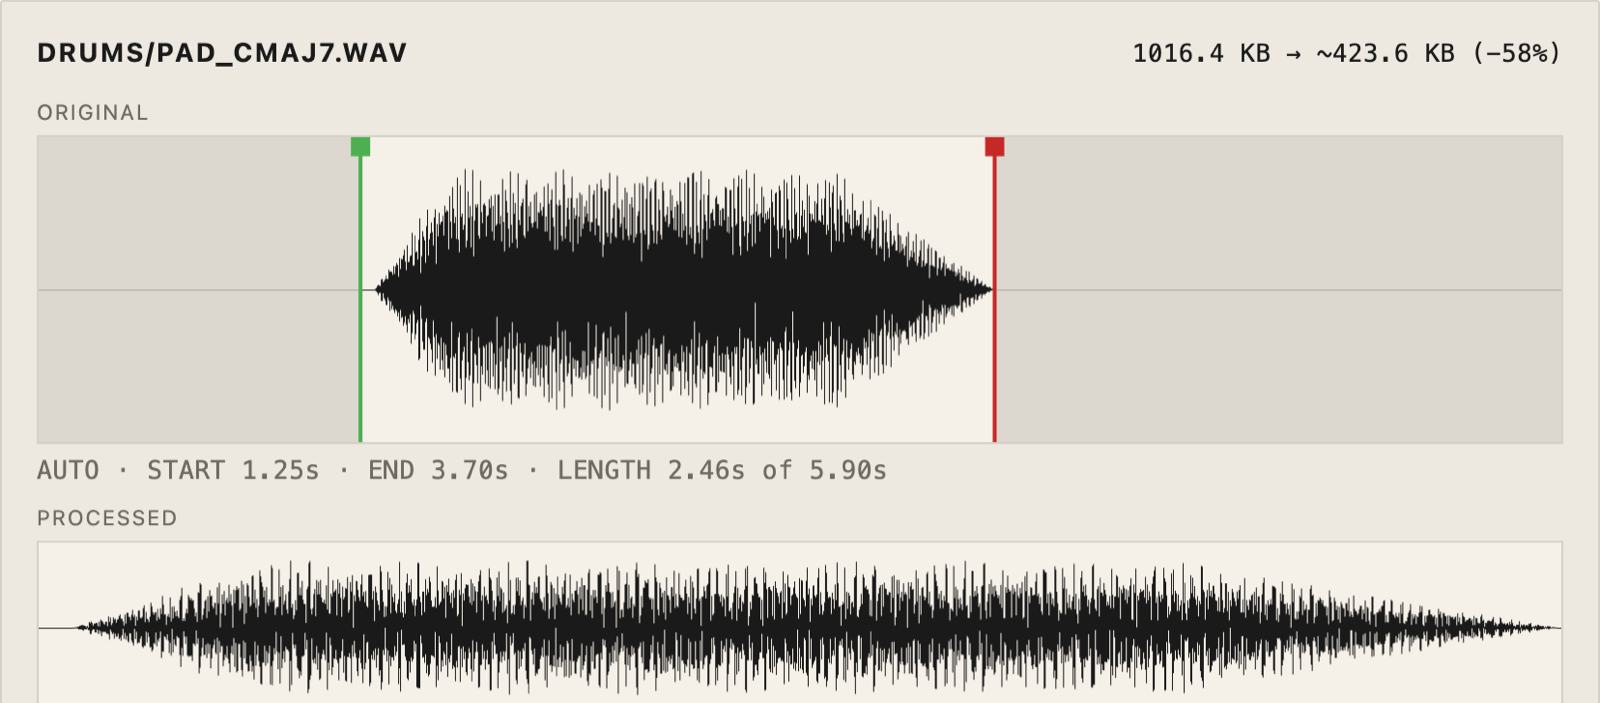
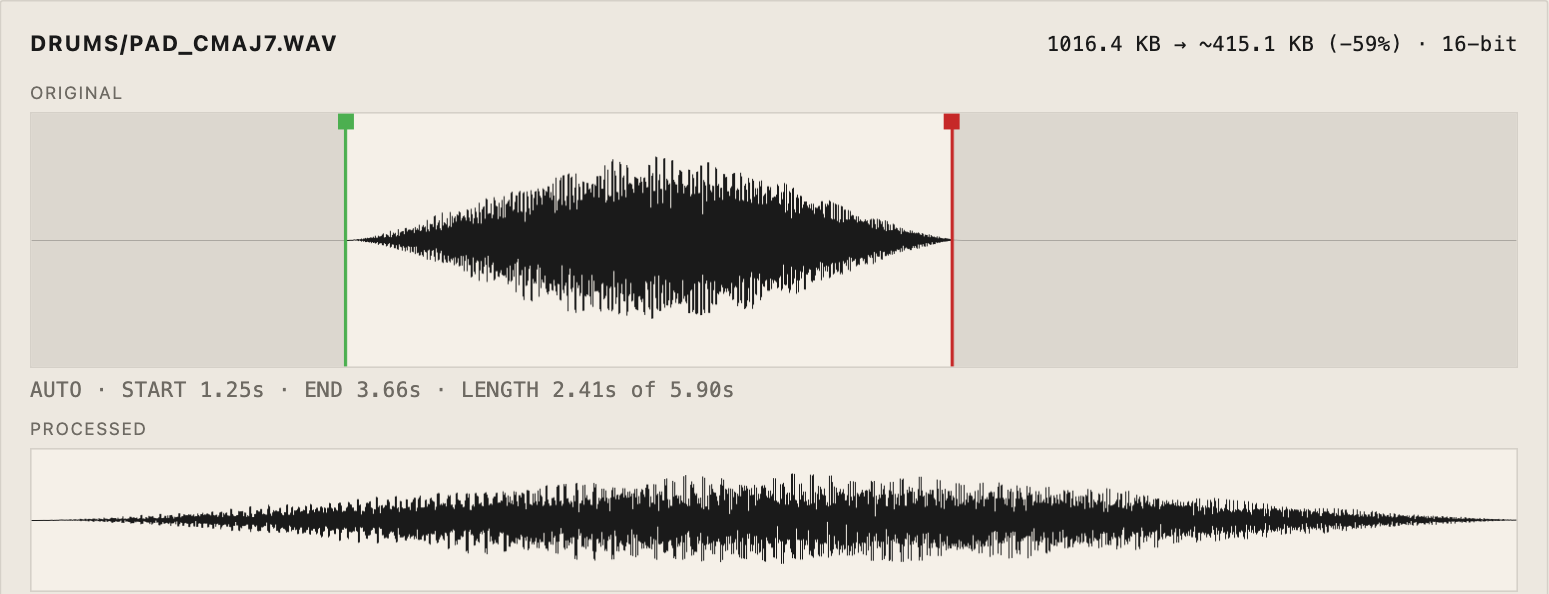
Regenerate the README screenshots from the current app
The old images still showed the "KO Trimmer" name and the removed
Favorites sidebar. scripts/screenshots.ts (npm run screenshots) rebuilds
them from the production build in Chromium: a synthetic Drums kit
written to OPFS behind a stubbed folder picker, so the shots show real
folder output, a manual trim and the finished batch.

diff --git a/scripts/screenshots.ts b/scripts/screenshots.ts
@@ -1,0 +1,135 @@
+/**
+ * Regenerates the README screenshots in docs/screenshots/ from the production
+ * build (run via `npm run screenshots`, which builds first). Drives Chromium
+ * through a small synthetic "Drums" kit, with showDirectoryPicker stubbed to
+ * an OPFS folder so the shots show real folder output.
+ */
+import { chromium, type Page } from '@playwright/test';
+import { preview } from 'vite';
+import { encodeWav } from '../src/audio/wavEncoder';
+
+const SAMPLE_RATE = 44100;
+const OUT_DIR = 'docs/screenshots';
+
+let seed = 1;
+const noise = () => ((seed = (seed * 16807) % 2147483647) / 2147483647) * 2 - 1;
+
+/** `before` s of silence, then `length` s of `sample(t)`, then `after` s of silence. */
+function padded(before: number, length: number, after: number, sample: (t: number) => number): Float32Array {
+  const out = new Float32Array(Math.round((before + length + after) * SAMPLE_RATE));
+  const start = Math.round(before * SAMPLE_RATE);
+  for (let i = 0; i < length * SAMPLE_RATE; i++) out[start + i] = sample(i / SAMPLE_RATE);
+  return out;
+}
+
+function kit(): Array<{ path: string; bytes: Uint8Array }> {
+  const chord = [261.63, 329.63, 392.0, 493.88]; // Cmaj7
+  const pad = (detune: number) =>
+    padded(1.25, 2.45, 2.2, (t) => {
+      const swell = Math.sin((Math.PI * t) / 2.45) ** 1.5;
+      const tone = chord.reduce((sum, hz) => sum + Math.sin(2 * Math.PI * hz * detune * t), 0) / chord.length;
+      return 0.6 * swell * (tone + 0.15 * noise());
+    });
+  let kickPhase = 0;
+  const kick = padded(0.3, 1.4, 1.5, (t) => {
+    kickPhase += (2 * Math.PI * (50 + 100 * Math.exp(-t * 25))) / SAMPLE_RATE;
+    return 0.9 * Math.exp(-t * 3) * Math.sin(kickPhase);
+  });
+  const snare = padded(
+    0.2,
+    0.4,
+    1.5,
+    (t) => Math.exp(-t * 14) * (0.6 * noise() + 0.4 * Math.sin(2 * Math.PI * 185 * t)),
+  );
+  let last = 0;
+  const hat = padded(0.15, 0.25, 1.5, (t) => {
+    const n = noise();
+    const high = n - last; // crude high-pass
+    last = n;
+    return 0.5 * Math.exp(-t * 30) * high;
+  });
+  return [
+    { path: 'Drums/pad_Cmaj7.wav', bytes: encodeWav([pad(1), pad(1.003)], SAMPLE_RATE) },
+    { path: 'Drums/Kit/kick_808.wav', bytes: encodeWav([kick], SAMPLE_RATE) },
+    { path: 'Drums/Kit/snare_tight.wav', bytes: encodeWav([snare], SAMPLE_RATE) },
+    { path: 'Drums/Kit/hat_closed.wav', bytes: encodeWav([hat], SAMPLE_RATE) },
+  ];
+}
+
+/** Writes the kit into OPFS and makes the folder picker return it. */
+async function useOpfsKit(page: Page): Promise<void> {
+  const files = kit().map(({ path, bytes }) => ({ path, bytes: Array.from(bytes) }));
+  await page.evaluate(async (files) => {
+    const root = await navigator.storage.getDirectory();
+    await root.removeEntry('Drums', { recursive: true }).catch(() => {});
+    for (const { path, bytes } of files) {
+      const parts = path.split('/');
+      const name = parts.pop()!;
+      let dir = root;
+      for (const part of parts) dir = await dir.getDirectoryHandle(part, { create: true });
+      const writable = await (await dir.getFileHandle(name, { create: true })).createWritable();
+      await writable.write(new Uint8Array(bytes));
+      await writable.close();
+    }
+    window.showDirectoryPicker = async () => root.getDirectoryHandle('Drums');
+  }, files);
+}
+
+async function main(): Promise<void> {
+  const server = await preview({ preview: { port: 4175, strictPort: true }, logLevel: 'warn' });
+  const url = server.resolvedUrls!.local[0];
+  const browser = await chromium.launch();
+  try {
+    const page = await browser.newPage({
+      viewport: { width: 1000, height: 1000 },
+      deviceScaleFactor: 1.6, // 1600 px wide images
+      colorScheme: 'light',
+    });
+    await page.goto(url);
+    await page.getByRole('button', { name: 'Skip for now' }).click();
+    await page.addStyleTag({ content: '.about-button { display: none; }' }); // fixed overlay, not part of the shot
+    await useOpfsKit(page);
+
+    await page.getByText('Drop audio files or folders here').click();
+    await page.locator('.file-table tbody tr', { hasText: 'pad_Cmaj7' }).click();
+    await page.locator('.action-row .readout', { hasText: '→ ~' }).waitFor();
+    await page.waitForFunction(
+      () => !document.querySelector('.action-row .readout')?.textContent?.includes('analysed'),
+    );
+    await page.waitForTimeout(500); // processed-preview render
+    await page.evaluate(() => window.scrollTo(0, 0));
+    await page.screenshot({ path: `${OUT_DIR}/main.png` });
+
+    const panel = (await page.locator('.waveform-editor').boundingBox())!;
+    const processed = (await page.locator('.wave-processed').boundingBox())!;
+    await page.screenshot({
+      path: `${OUT_DIR}/editor.png`,
+      fullPage: true, // the editor sits below the fold
+      clip: { x: panel.x, y: panel.y, width: panel.width, height: processed.y + processed.height + 1 - panel.y },
+    });
+
+    // A manual trim on the pad (end handle pulled in from the keyboard), so the results show the tag.
+    await page.locator('.wave-original').focus();
+    await page.keyboard.press(']');
+    for (let i = 0; i < 4; i++) await page.keyboard.press('Shift+ArrowLeft');
+    await page.locator('.wave-original').blur();
+
+    await page.getByRole('button', { name: 'Process Files' }).click();
+    await page.getByText('Processing complete!').waitFor();
+    await page.waitForFunction(() => {
+      const fill = document.querySelector<HTMLElement>('.progress-bar-fill')!; // width animates
+      return fill.getBoundingClientRect().width >= fill.parentElement!.getBoundingClientRect().width - 2;
+    });
+    await page.evaluate(() => window.scrollTo(0, 0));
+    const results = (await page.locator('.panel').last().boundingBox())!;
+    await page.screenshot({
+      path: `${OUT_DIR}/results.png`,
+      clip: { x: 0, y: 0, width: 1000, height: results.y + results.height + 24 },
+    });
+  } finally {
+    await browser.close();
+    await new Promise<void>((resolve) => server.httpServer.close(() => resolve()));
+  }
+}
+
+await main();

diff --git a/CLAUDE.md b/CLAUDE.md
@@ -24,6 +24,7 @@ npm run build      # typecheck && vite build -> dist/
 npm run preview    # serve the production build locally
 npm run test:e2e   # Playwright E2E in Chromium/Firefox/WebKit against the build
 npm run icons      # regenerate PWA icons from assets/Knockout.svg
+npm run screenshots # regenerate README screenshots (Playwright + a synthetic Drums kit)
 ```
 
 Deploys automatically: pushing to `main` triggers `.github/workflows/deploy-pwa.yml`,
@@ -104,6 +105,8 @@ tests/unit/       Vitest specs for every pure audio/ module plus the pure logic 
                   run these first when touching DSP logic; they encode the exact
                   algorithms below.
 scripts/          generate-icons.ts (renders public/icons/ from assets/Knockout.svg)
+                  screenshots.ts (README images in docs/screenshots/, Chromium +
+                  OPFS-stubbed folder picker)
 ```
 
 **Processing pipeline (fixed order, `audio/pipeline.ts`):**

diff --git a/README.md b/README.md
@@ -52,6 +52,7 @@ npm run test:e2e   # Playwright end-to-end tests in Chromium, Firefox and WebKit
 npm run build      # typecheck + production build to dist/
 npm run preview    # serve dist/ locally at the /KO-Trimmer/ base path
 npm run icons      # regenerate PWA icons from assets/Knockout.svg
+npm run screenshots # regenerate docs/screenshots/ from the production build
 ```
 
 Unit tests cover the DSP (energy envelope, silence detection, leading+trailing trim,
